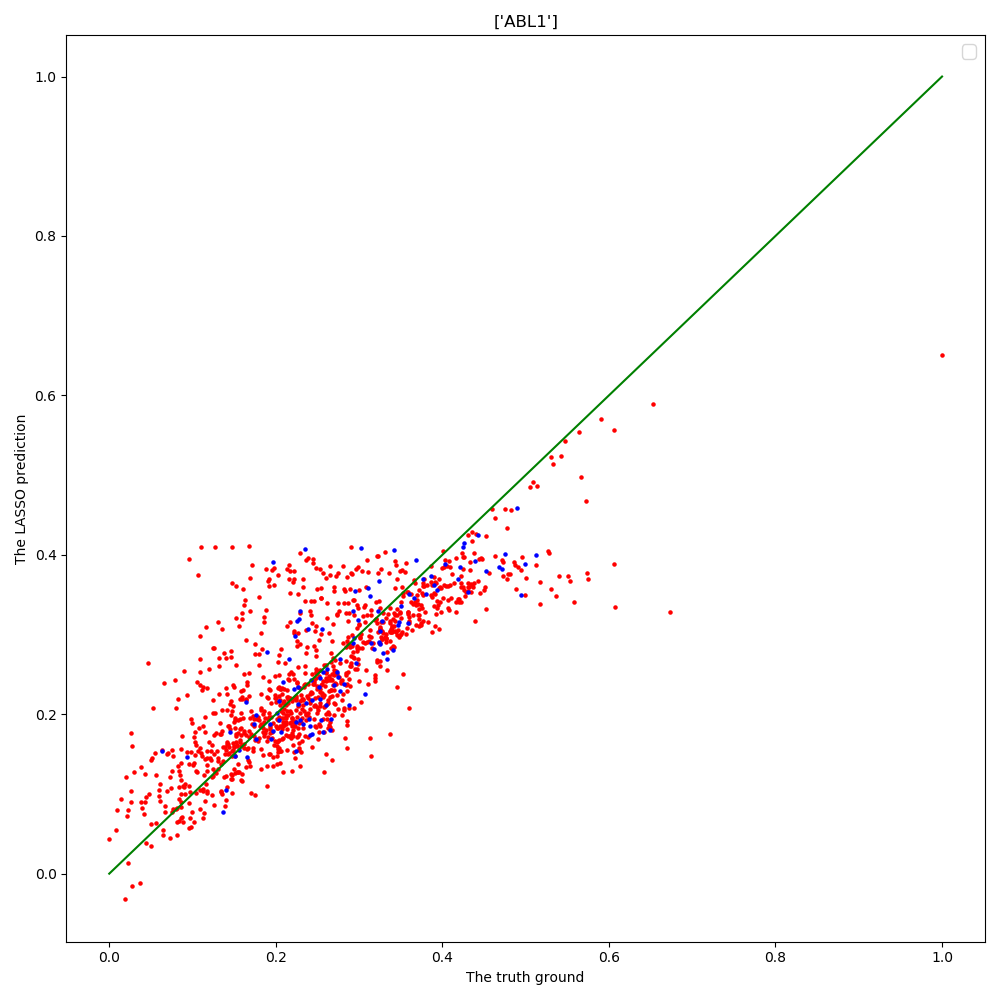
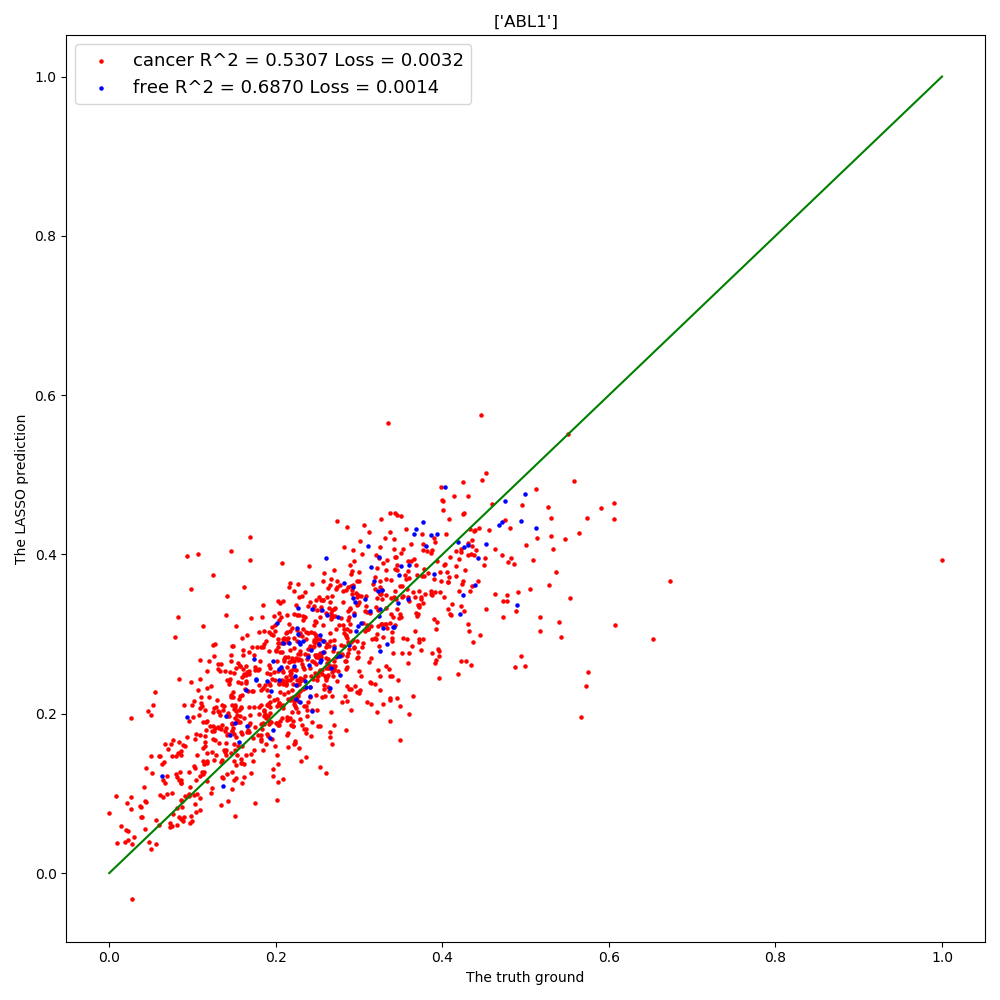
test on both model and update the results

diff --git a/GenomicData/transductive_sage.py b/GenomicData/transductive_sage.py
@@ -92,7 +92,7 @@ free_x_patient_all = scatter(num_nodes, free_x_patient, genome_idxs, pre_embed_x
 cancer_x_patient_all = scatter(num_nodes, cancer_x_patient, genome_idxs, pre_embed_x)
 
 
-device = 'cpu' if torch.cuda.is_available() else 'cpu'
+device = 'cuda' if torch.cuda.is_available() else 'cpu'
 model = SageNet(1, 1).to(device)
 # criterion = nn.MSELoss()
 criterion = nn.SmoothL1Loss()
@@ -125,7 +125,7 @@ def test(dataflow):
 def train(dataflow):
     x = dataflow.train_x.float().to(device)
     y = dataflow.train_y.float().to(device)
-    for epoch in range(500):
+    for epoch in range(165):
         model.train()
         optimizer.zero_grad()
         pred = model(x, dataflow.dataflow).unsqueeze(-1)
